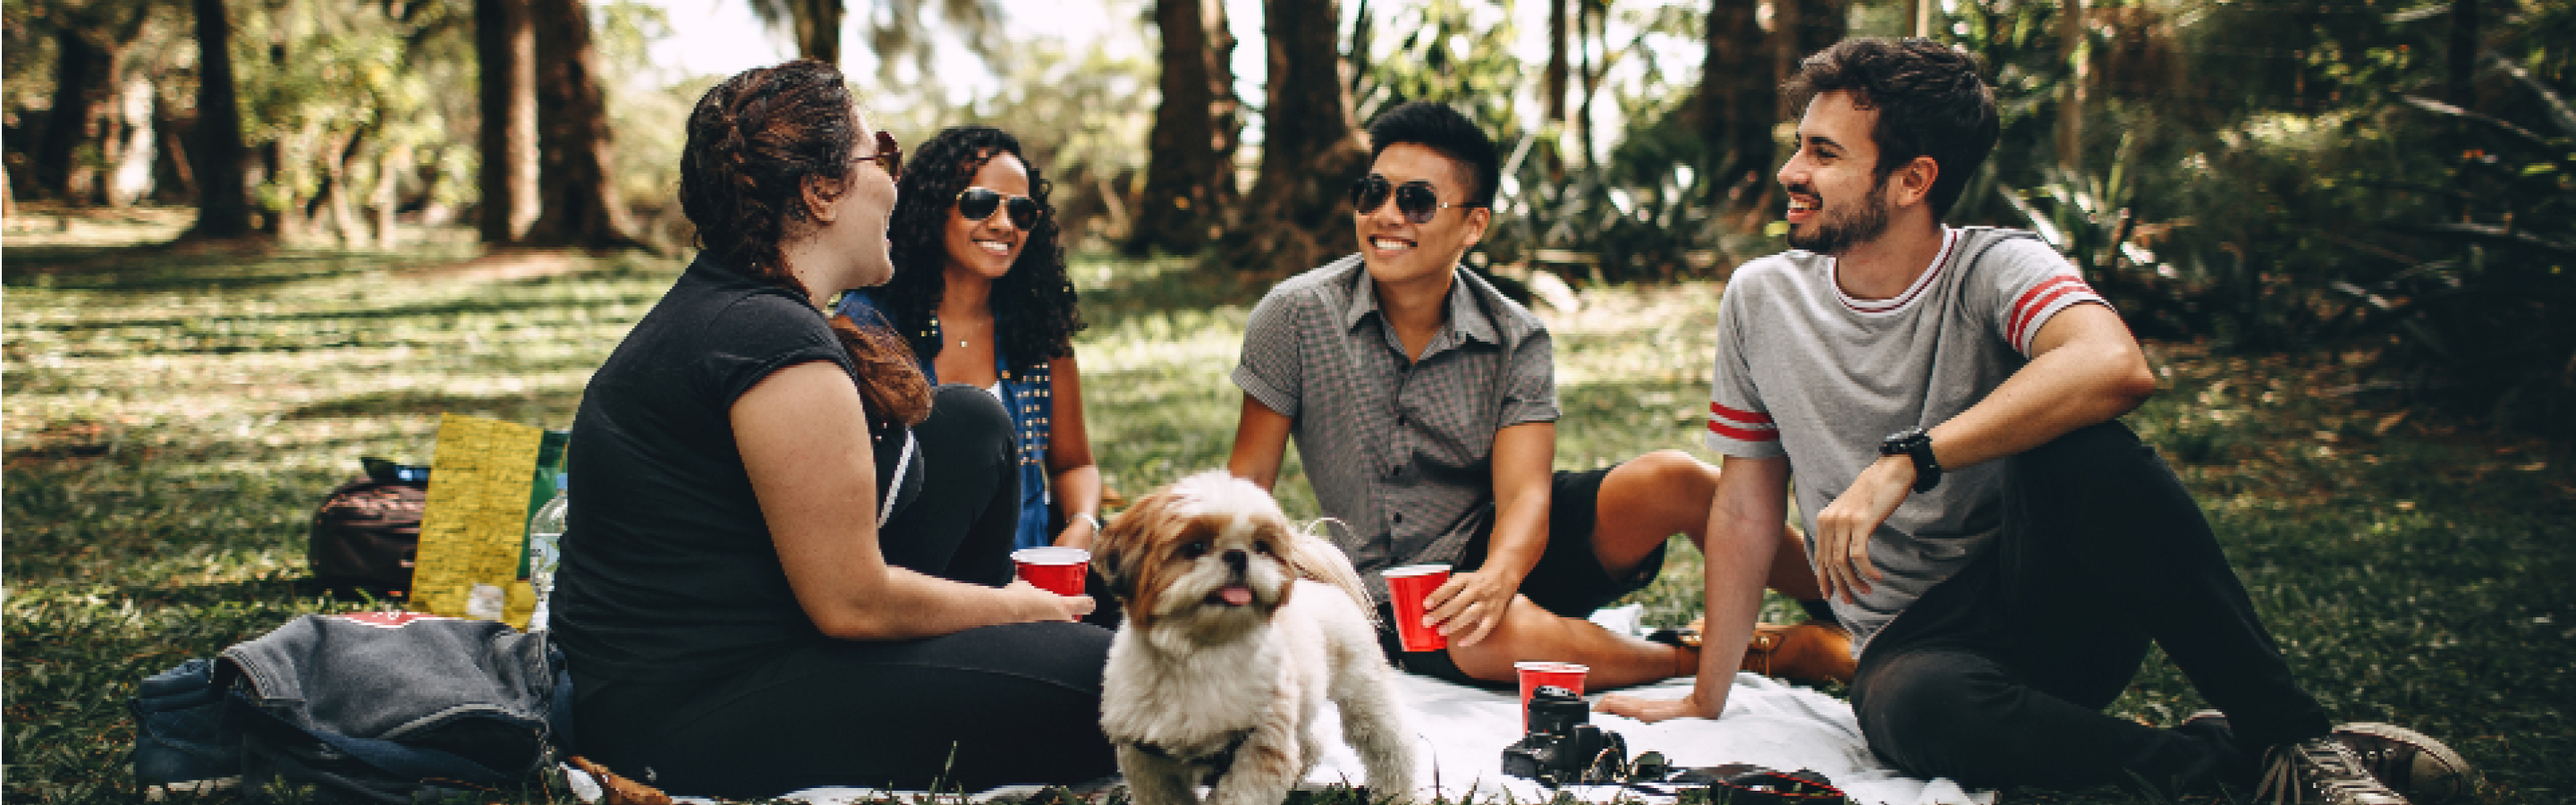
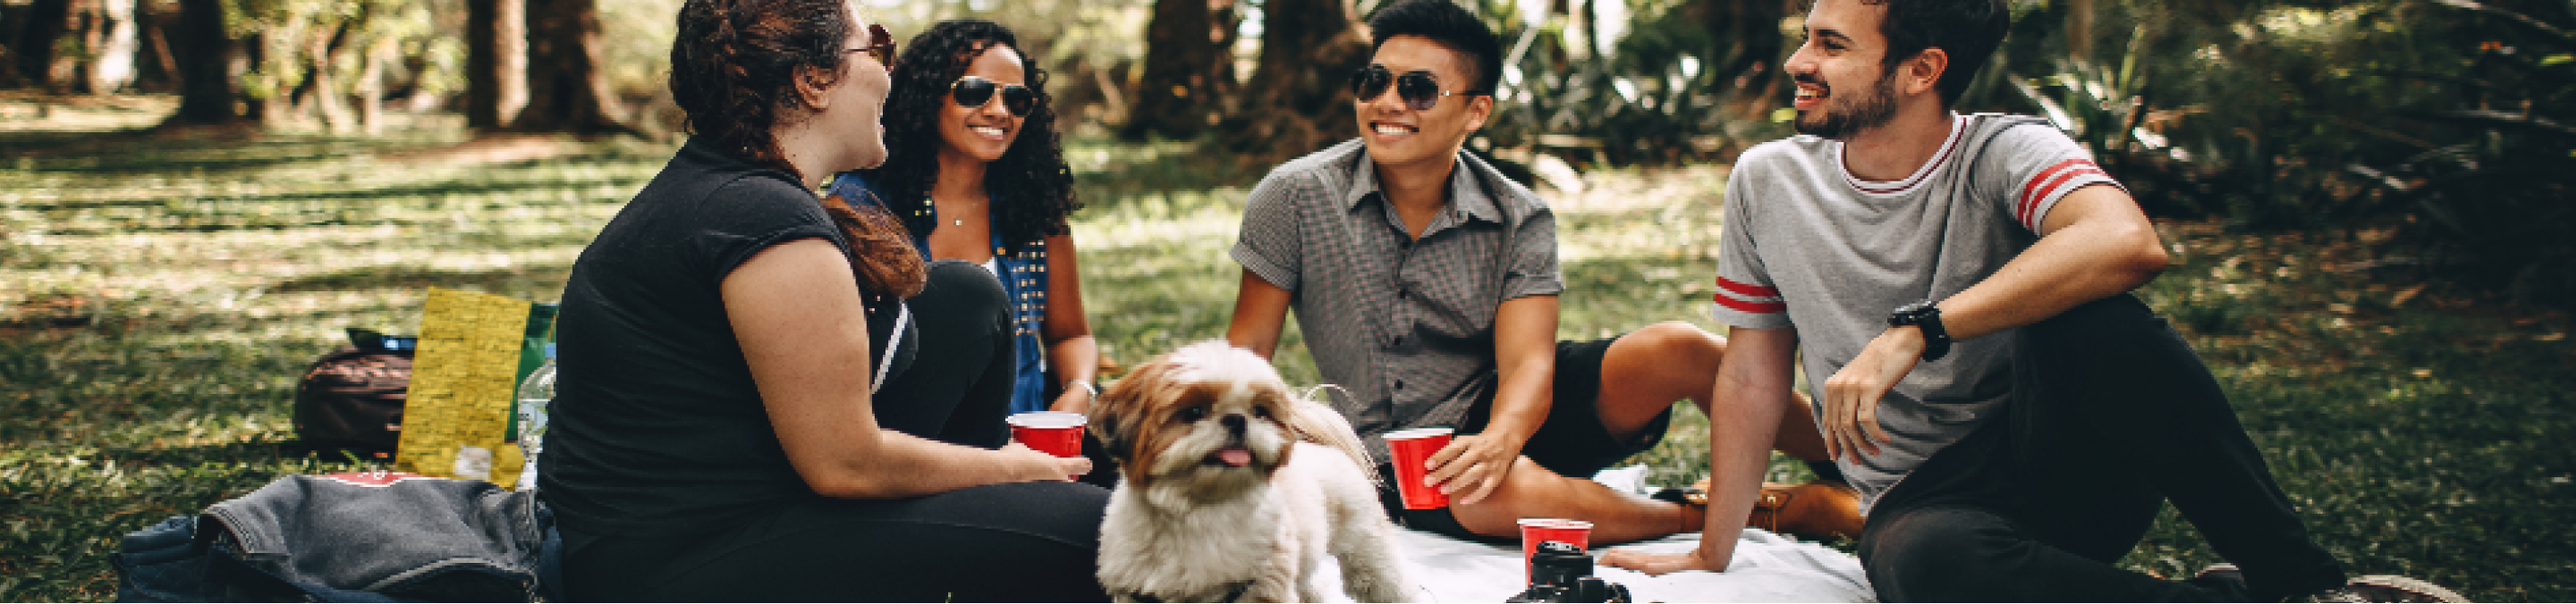
pet頁面完成100%

diff --git a/app/pet.html b/app/pet.html
@@ -20,7 +20,7 @@ current: index
   </div>
 
   <!-- Swiper -->
-  <div class="swipert Swiper-pet  overflow-hidden  ">
+  <div class="swipert Swiper-pet  overflow-hidden ">
     <div class="swiper-wrapper m-0 ">
       <div class="swiper-slide m-0  ">
         <img src="./assets/images/pet/pet-banner1.jpg" alt="pet-banner1.jpg">
@@ -37,7 +37,7 @@ current: index
   </div>
 </div>
 
-<div class="pet-bg bg-img" style="background-image: url(./assets/images/pet/pet-bg-sm.jpg);">
+<div class="pet-bg bg-img-bottom" style="background-image: url(./assets/images/pet/pet-bg-sm.jpg);">
   <div class="position-relative ">
     <div class="tittle-border d-none d-lg-block"></div>
   </div>
@@ -77,17 +77,59 @@ current: index
 
   </div>
 
+  <!-- //youtube區塊 -->
   <div class="bg-black-op pet-video text-primary pb-6 ">
-    <div class="container">
-      <div class="d-flex justify-content-center flex-column align-item-center border-bottom ">
-        <img class="mx-auto mt-4" src="./assets/images/pet/pet-icon2.png" alt="pet-icon2.png" width="182">
-        <h3 class="text-center mb-3">許伯＆簡芝- 從零開始養</h3>
-      </div>
-      <div class="mt-6 ">
-        <iframe height="200px" src="https://www.youtube.com/embed/2Yqtm1lVMbk" title="YouTube video player" frameborder="0"
-          allow="accelerometer; autoplay; clipboard-write; encrypted-media; gyroscope; picture-in-picture"
-          allowfullscreen></iframe>
-      </div>
+    <div class="d-flex justify-content-center flex-column align-item-center border-bottom  mb-6">
+      <img class="mx-auto mt-4" src="./assets/images/pet/pet-icon2.png" alt="pet-icon2.png" width="182">
+      <h3 class="text-center mb-3">許伯＆簡芝- 從零開始養</h3>
     </div>
+    <!-- //swiper 影片輪播 -->
+    <div class="container position-relative ">
+      <div class="swiper Swiper-video pt-6 pb-6 m ">
+        <div class="swiper-wrapper  mx-auto">
+          <div class="swiper-slide d-flex justify-content-center">
+            <iframe class="text-center iframe" width="340" height="280" src="https://www.youtube.com/embed/2Yqtm1lVMbk"
+              title="YouTube video player" frameborder="0"
+              allow="accelerometer; autoplay; clipboard-write; encrypted-media; gyroscope; picture-in-picture"
+              allowfullscreen></iframe>
+          </div>
+          <div class="swiper-slide d-flex justify-content-center">
+            <iframe class="text-center iframe " width="340" height="280" src="https://www.youtube.com/embed/ovYzQdvuTzY"
+              title="YouTube video player" frameborder="0"
+              allow="accelerometer; autoplay; clipboard-write; encrypted-media; gyroscope; picture-in-picture"
+              allowfullscreen></iframe>
+          </div>
+          <div class="swiper-slide  d-flex justify-content-center">
+            <iframe class="text-center iframe" width="340" height="280" src="https://www.youtube.com/embed/g9U4xbwLkVA"
+              title="YouTube video player" frameborder="0"
+              allow="accelerometer; autoplay; clipboard-write; encrypted-media; gyroscope; picture-in-picture"
+              allowfullscreen></iframe>
+          </div>
+          <div class="swiper-slide  d-flex justify-content-center">
+            <iframe class="text-center iframe" width="340" height="280" src="https://www.youtube.com/embed/K8X2KjEtKn4"
+              title="YouTube video player" frameborder="0"
+              allow="accelerometer; autoplay; clipboard-write; encrypted-media; gyroscope; picture-in-picture"
+              allowfullscreen></iframe>
+          </div>
+          <div class="swiper-slide  d-flex justify-content-center">
+            <iframe class="text-center iframe" width="340" height="280" src="https://www.youtube.com/embed/wlPkOVSRSnY"
+              title="YouTube video player" frameborder="0"
+              allow="accelerometer; autoplay; clipboard-write; encrypted-media; gyroscope; picture-in-picture"
+              allowfullscreen></iframe>
+          </div>
+          <div class="swiper-slide  d-flex justify-content-center">
+            <iframe class="text-center iframe" width="340" height="280" src="https://www.youtube.com/embed/z6OaOpj7Qug"
+              title="YouTube video player" frameborder="0"
+              allow="accelerometer; autoplay; clipboard-write; encrypted-media; gyroscope; picture-in-picture"
+              allowfullscreen></iframe>
+          </div>
+
+        </div>
+      </div>
+      <img class="left d-none d-lg-block " src="./assets/images/layout/left.png" alt="" width="40">
+      <img class="right d-none d-lg-block" src="./assets/images/layout/right.png" alt="" width="40">
+      <div class="swiper-pagination d-lg-none "></div>
+    </div>
+
   </div>
 </div>

diff --git a/app/assets/js/all.js b/app/assets/js/all.js
@@ -67,3 +67,37 @@ var swiper = new Swiper(".Swiper-pet", {
     prevEl: ".swiper-button-prev",
   },
 });
+
+
+//pet 影片輪播
+
+var swiper = new Swiper(".Swiper-video", {
+  slidesPerView: 1,
+  spaceBetween:30,
+  autoHeight: true,
+
+  loop: true,
+  centeredSlides: true,
+  navigation: {
+    nextEl: ".left",
+    prevEl: ".right",
+  },
+  breakpoints: {
+
+    767: { //当屏幕宽度大于等于375
+      slidesPerView: 2,
+    },
+    992: { //当屏幕宽度大于等于375
+      slidesPerView: 2,
+    },
+    1200: { //当屏幕宽度大于等于375
+      slidesPerView: 3,
+    },
+
+  },
+  pagination: {
+    el: ".swiper-pagination",
+    clickable: true,
+  },
+
+});

diff --git a/app/assets/style/components/_swiper.scss b/app/assets/style/components/_swiper.scss
@@ -1,16 +1,37 @@
 .swiper-slide-active{
   transform: scale(1.3);
-  margin-left: 24px;
   opacity: 1 !important;
+  z-index: 500;
 }
 
 .swiper-slide{
-  opacity: 0.7;
+  opacity: 0.5;
 }
 
 .swiper-slide-next{
   margin-left: 24px;
+ 
 
 }
 
 
+
+.left{
+  position: absolute;
+  left:-50px;
+  top: 50%;
+}
+
+.right{
+  position: absolute;
+  right:-50px;
+  top: 50%;
+}
+
+.swiper-pagination-bullet{
+  background: rgb(255, 255, 255) ;
+}
+
+.swiper-pagination-bullet-active{
+  background: $primary ;
+}

diff --git a/app/assets/style/pages/_pet.scss b/app/assets/style/pages/_pet.scss
@@ -1,0 +1,31 @@
+@include ipad-sm {
+  .Swiper-video{
+    .iframe{
+      width: 85% !important;
+    }
+  }
+}
+
+@include ipad {
+  .pet-bg {
+    background-image: url(.././images/pet/pet-bg.jpg) !important;
+  }
+  .Swiper-video{
+    .iframe{
+      width: 1000px !important;
+    }
+  }
+}
+
+@include web {
+  .pet-bg {
+    background-image: url(.././images/pet/pet-bg.jpg) !important;
+
+  }
+
+  .Swiper-video{
+    .iframe{
+      width: 1000px !important;
+    }
+  }
+}

diff --git a/app/assets/style/all.scss b/app/assets/style/all.scss
@@ -31,4 +31,5 @@
 // dog pages
 @import "./pages/dog";
 @import "./pages/cat";
+@import "./pages/pet";
 

diff --git a/app/assets/style/base/_base.scss b/app/assets/style/base/_base.scss
@@ -25,8 +25,3 @@ li{
 p{
   margin-bottom: 0 ;
 }
-
-iframe{
-  width: 100%;
-  height: 180px;
-}
